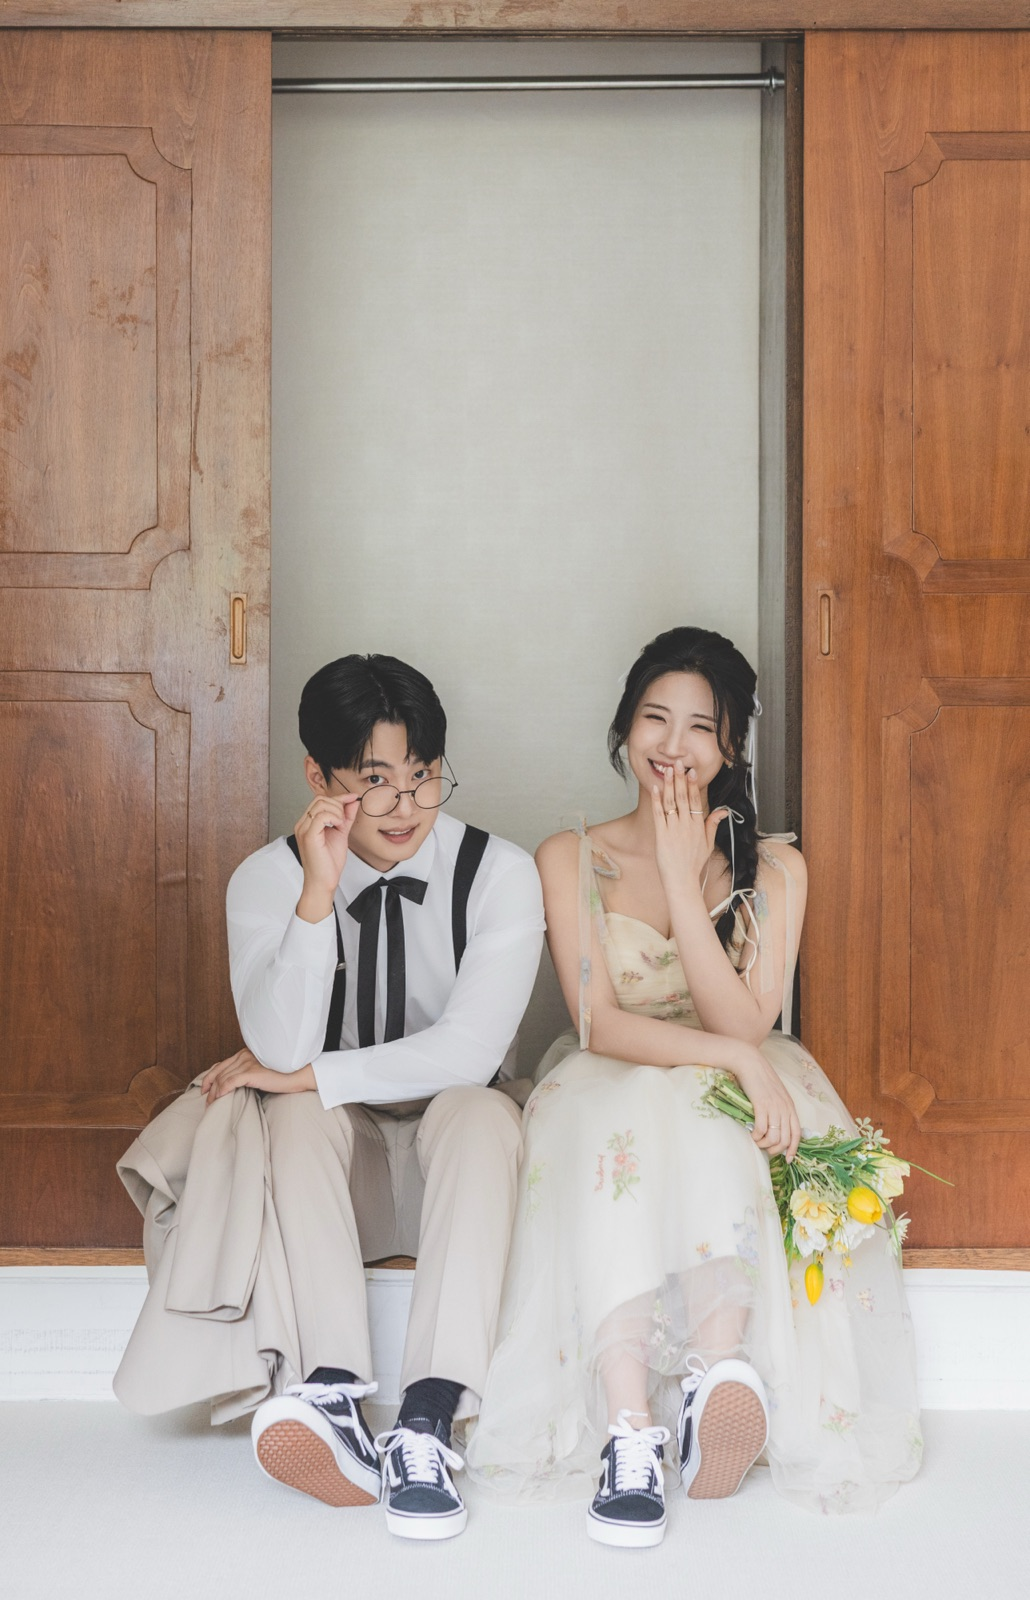
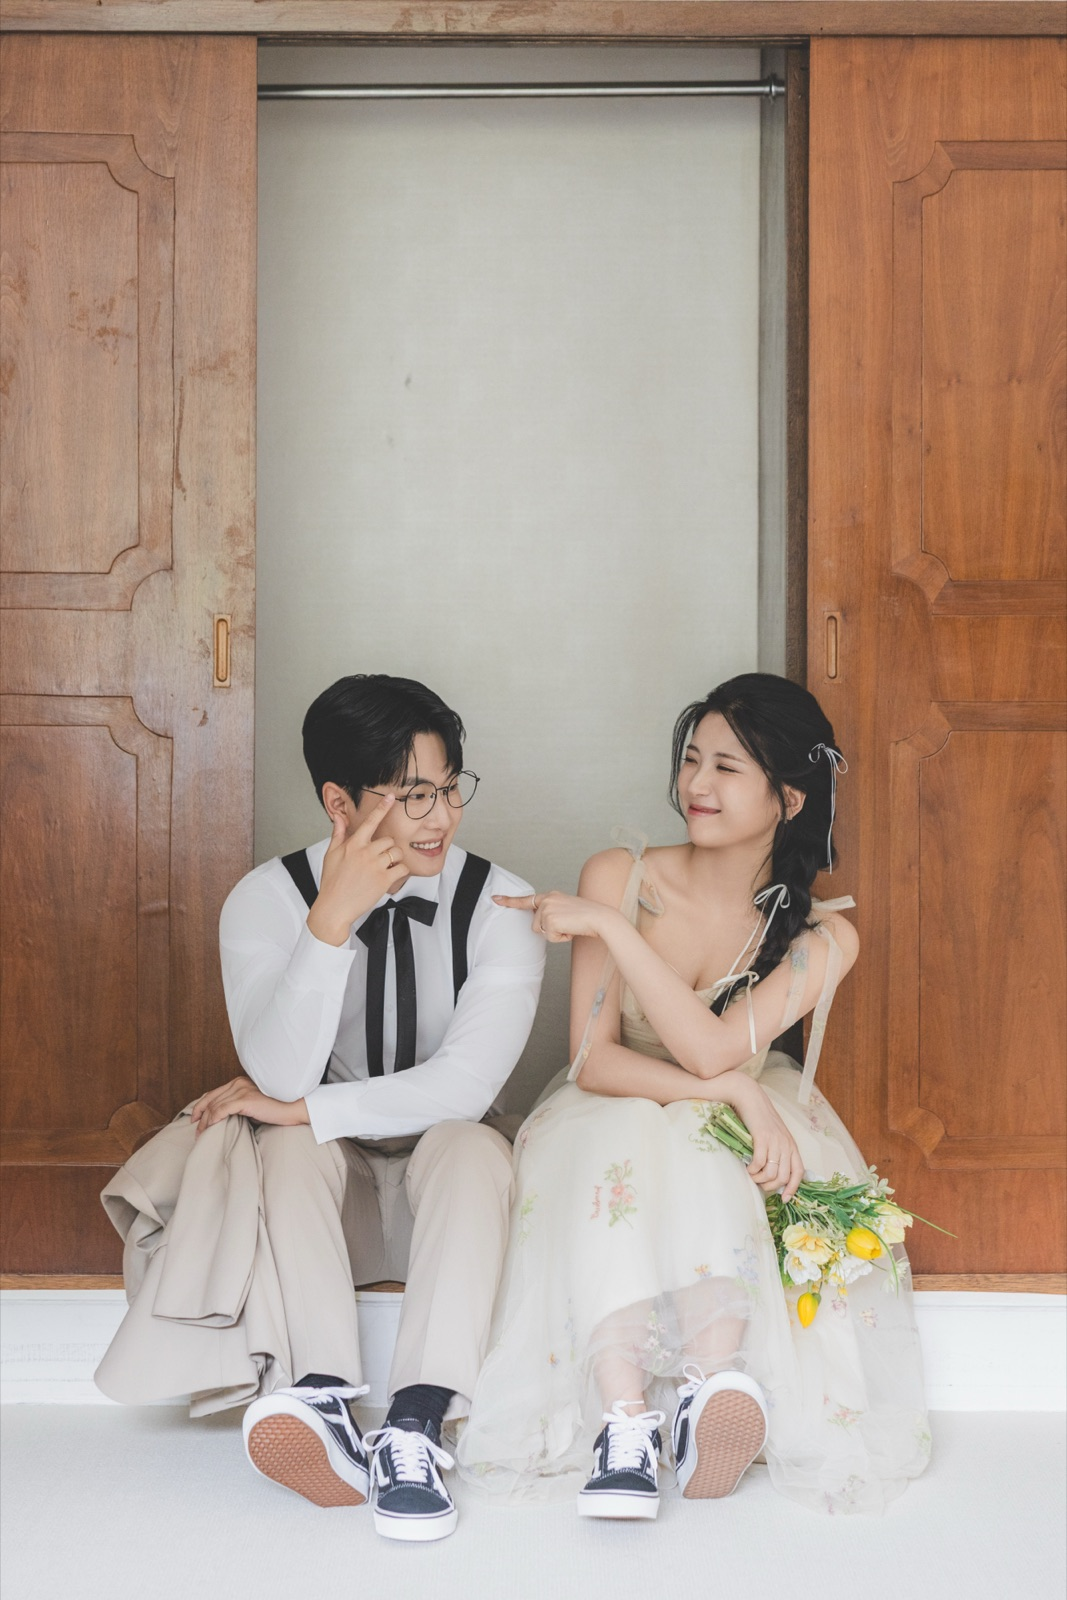
사진 수정 반영 (메인 교체, 갤러리 13장)

diff --git a/dev/index.html b/dev/index.html
@@ -130,7 +130,6 @@ dialog .prev { left: 10px; } dialog .next { right: 10px; }
     <img src="../images/11.jpg" alt="">
     <img src="../images/12.jpg" alt="">
     <img src="../images/13.jpg" alt="">
-    <img src="../images/14.jpg" alt="">
   </div>
 </section>
 

diff --git a/index.html b/index.html
@@ -275,7 +275,6 @@ dialog .prev { left: 10px; } dialog .next { right: 10px; }
     <img src="images/11.jpg" alt="">
     <img src="images/12.jpg" alt="">
     <img src="images/13.jpg" alt="">
-    <img src="images/14.jpg" alt="">
   </div>
 </section>
 
